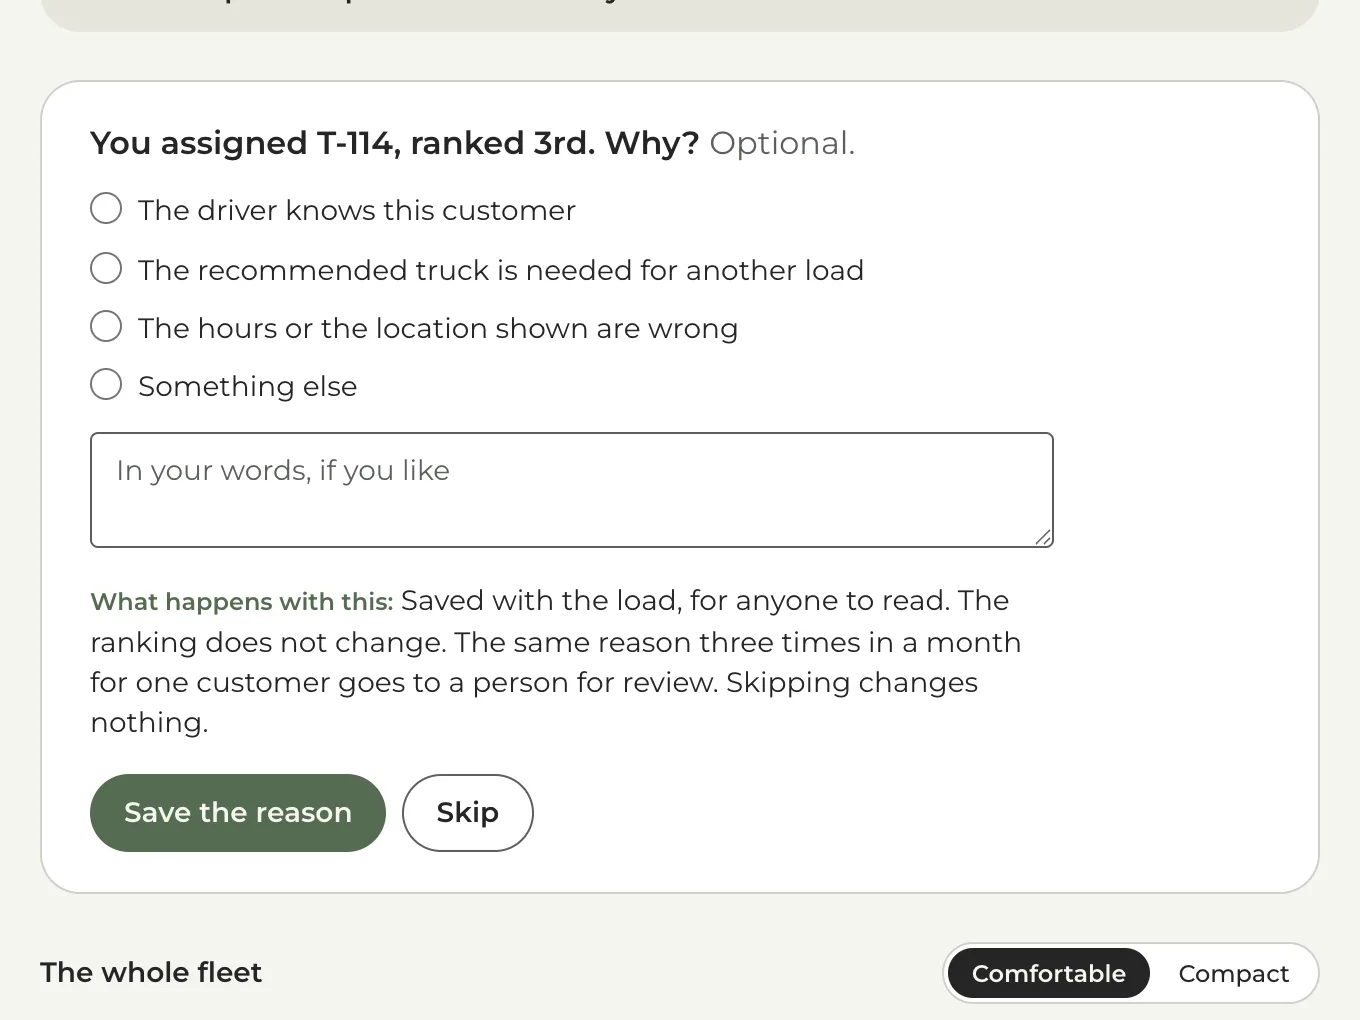
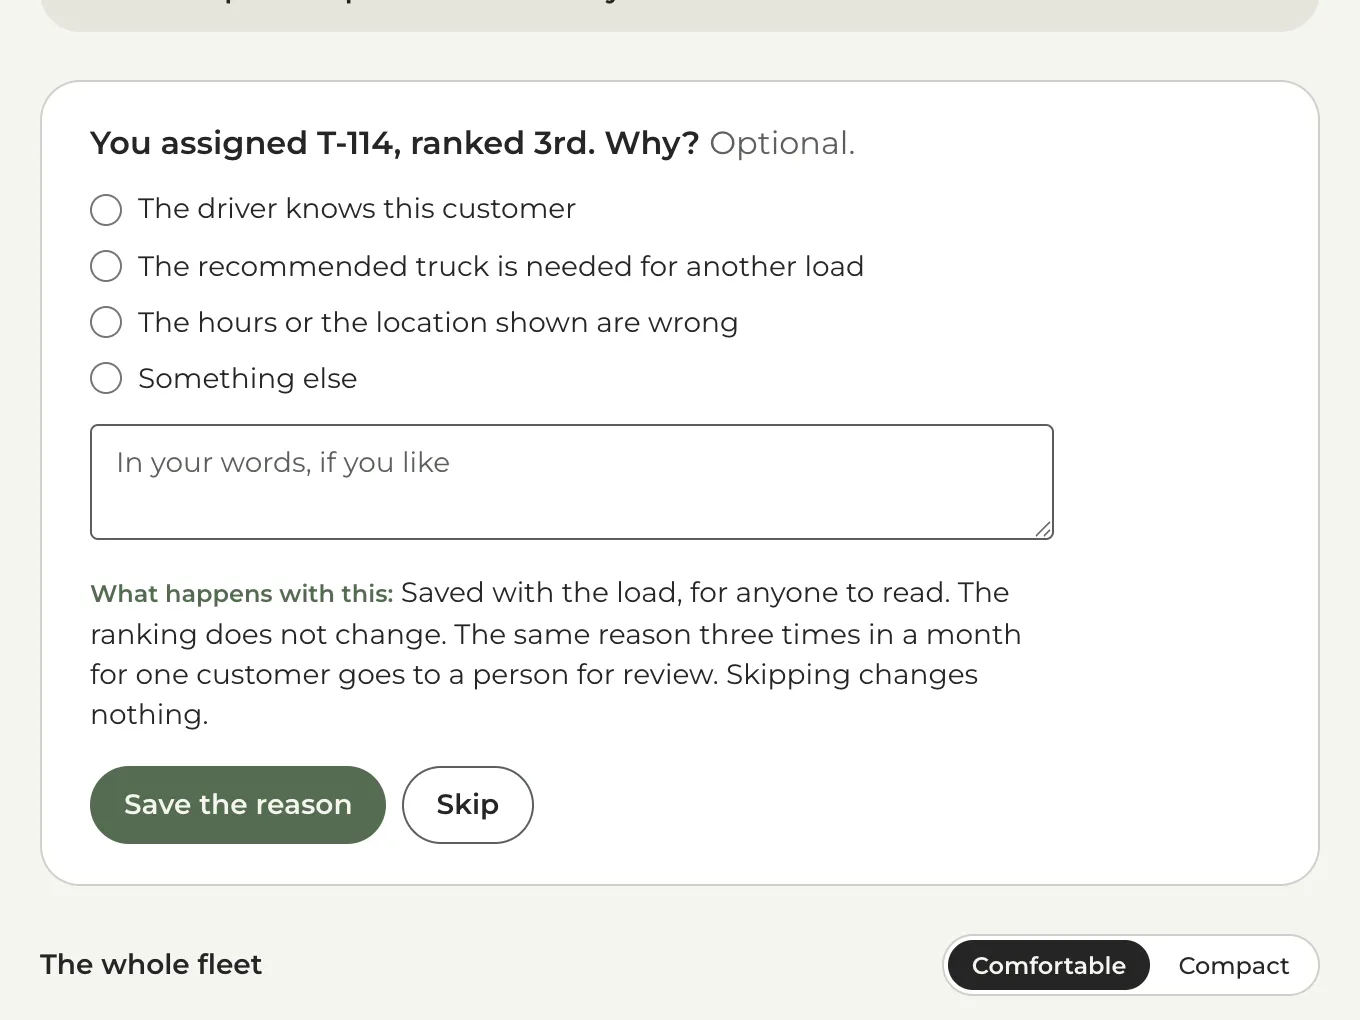
The override card's radio rows centre the button on the label
The four reason rows aligned the radio to the label's baseline and
then nudged it down 0.15em, which left the circle sitting low against
a one-line label. The row now centres the two, and the nudge goes.

The three captures that show the card are re-run: override-after
(8px shorter, height attribute moved with it), slide-override and
slide-override-sm. Cache-busters bumped on the stylesheet and all
three images.

diff --git a/prototype/dispatch-cockpit.html b/prototype/dispatch-cockpit.html
@@ -40,7 +40,7 @@
           "mainEntityOfPage": "https://adamhickey.com/prototype/dispatch-cockpit.html",
           "image": "https://adamhickey.com/img/og/dispatch-cockpit.jpg?v=8",
           "datePublished": "2026-09-10",
-          "dateModified": "2026-09-14",
+          "dateModified": "2026-09-15",
           "author": {
             "@id": "https://adamhickey.com/#adam"
           },
@@ -106,7 +106,7 @@
   <link rel="stylesheet" href="../type.css?v=3" />
   <link rel="stylesheet" href="../style.css?v=20260912c" />
   <link rel="stylesheet" href="../site-nav.css?v=20260908a" />
-  <link rel="stylesheet" href="dispatch-cockpit.css?v=17" />
+  <link rel="stylesheet" href="dispatch-cockpit.css?v=18" />
   <script src="../site-nav.js?v=20260906a" defer></script>
   <!-- The cockpit. Deferred, no dependencies, no build step; the synthetic
        fleet is the object at the top of the file. -->
@@ -398,8 +398,8 @@
             <figure class="ck-slide-fig">
               <div class="ck-slide-screen">
                 <picture>
-                  <source media="(max-width: 47.99rem)" srcset="../img/cockpit/slide-override-sm.webp?v=5" width="780" height="1640" />
-                  <img src="../img/cockpit/slide-override.webp?v=6" width="1360" height="1020" loading="lazy" decoding="async" alt="A card headed &ldquo;You assigned T-114, ranked 3rd. Why? Optional.&rdquo; with four reasons to choose from, a free-text box reading &ldquo;In your words, if you like&rdquo;, a paragraph headed &ldquo;What happens with this&rdquo;, and two buttons: Save the reason, and Skip." />
+                  <source media="(max-width: 47.99rem)" srcset="../img/cockpit/slide-override-sm.webp?v=6" width="780" height="1640" />
+                  <img src="../img/cockpit/slide-override.webp?v=7" width="1360" height="1020" loading="lazy" decoding="async" alt="A card headed &ldquo;You assigned T-114, ranked 3rd. Why? Optional.&rdquo; with four reasons to choose from, a free-text box reading &ldquo;In your words, if you like&rdquo;, a paragraph headed &ldquo;What happens with this&rdquo;, and two buttons: Save the reason, and Skip." />
                 </picture>
               </div>
               <figcaption>T&#8209;114 was ranked third. Assigning it took one press and nothing argued back. The question comes afterwards, is optional, and Skip is as easy as Save.</figcaption>
@@ -678,7 +678,7 @@
                 </li>
                 <li>
                   <div class="ckw-scroll">
-                    <img src="../img/cockpit/override-after.webp?v=5" width="2576" height="1046" alt="After an override: a status line reading that load L-4821 is assigned to T-114, the truck ranked 3rd, and an optional question below it offering three reasons, a free-text box, a note about what happens with the answer, and Save the reason and Skip buttons." />
+                    <img src="../img/cockpit/override-after.webp?v=6" width="2576" height="1038" alt="After an override: a status line reading that load L-4821 is assigned to T-114, the truck ranked 3rd, and an optional question below it offering three reasons, a free-text box, a note about what happens with the answer, and Save the reason and Skip buttons." />
                   </div>
                   <p class="ckw-frame-cap"><span>Then</span> The question, afterwards and optional. Undo takes the place of Assign on the row, so the choice is reversible while it is being explained.</p>
                 </li>

diff --git a/index.html b/index.html
@@ -482,7 +482,7 @@
                morph into. -->
           <a class="case-card case-card--prototype reveal" href="prototype/dispatch-cockpit.html" aria-label="Open the prototype: A dispatch cockpit that shows its work">
             <div class="case-thumb">
-              <img decoding="async" loading="lazy" src="img/cockpit/slide-override.webp?v=6" alt="The cockpit after the dispatcher overrides it: a card headed &ldquo;You assigned T-114, ranked 3rd. Why? Optional.&rdquo; with four reasons to choose from, a free-text box reading &ldquo;In your words, if you like&rdquo;, a paragraph headed &ldquo;What happens with this&rdquo;, and two buttons: Save the reason, and Skip." width="1360" height="1020"/>
+              <img decoding="async" loading="lazy" src="img/cockpit/slide-override.webp?v=7" alt="The cockpit after the dispatcher overrides it: a card headed &ldquo;You assigned T-114, ranked 3rd. Why? Optional.&rdquo; with four reasons to choose from, a free-text box reading &ldquo;In your words, if you like&rdquo;, a paragraph headed &ldquo;What happens with this&rdquo;, and two buttons: Save the reason, and Skip." width="1360" height="1020"/>
             </div>
             <div class="case-card-body">
               <h3>A dispatch cockpit that shows its work</h3>

diff --git a/prototype/dispatch-cockpit.css b/prototype/dispatch-cockpit.css
@@ -2057,7 +2057,7 @@
 }
 .ck-radio {
   display: flex;
-  align-items: baseline;
+  align-items: center;
   gap: var(--space-xs);
   font-size: var(--text-sm);
   line-height: var(--leading-ui);
@@ -2069,8 +2069,6 @@
   width: 1rem; height: 1rem;
   margin: 0;
   flex-shrink: 0;
-  position: relative;
-  top: 0.15em;
 }
 .ck-why-text { display: block; margin-top: var(--space-2xs); }
 .ck-why-text textarea {
